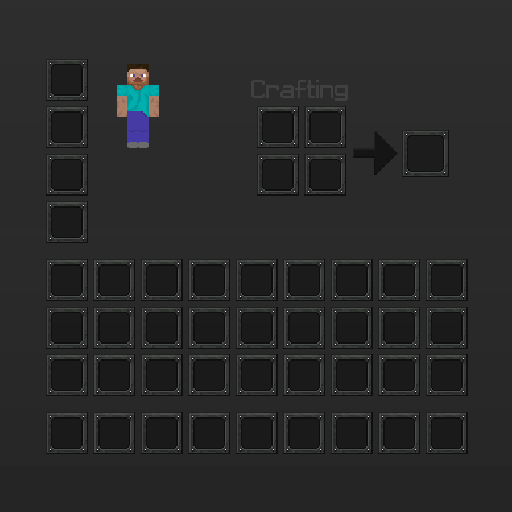
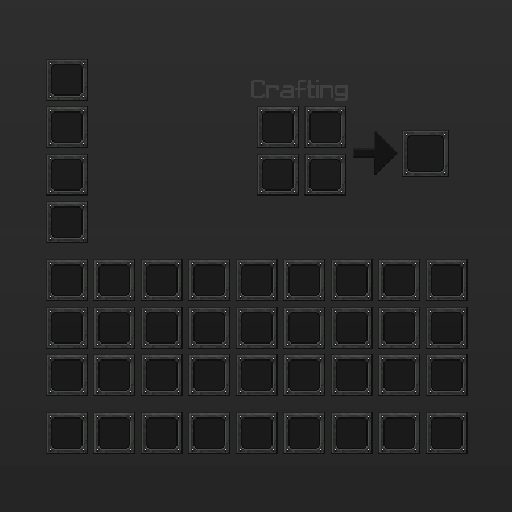
fix: remove Steve skin rendering from inv.png, keep Crafting text only

Changed region(s): [[0.2188, 0.125, 0.3125, 0.3125]]

diff --git a/scripts/extract-textures.js b/scripts/extract-textures.js
@@ -357,20 +357,8 @@ async function generateInventoryPreview(inventoryPath, outputDir) {
     const cropW = Math.round(176 * scale);
     const cropH = Math.round(166 * scale);
 
-    // 在 inventory 裁剪图上合成 Steve 和 Crafting 文字（在缩放之前）
+    // 在 inventory 裁剪图上合成 Crafting 文字（在缩放之前）
     const invCropComposites = [];
-
-    // Steve 皮肤 - 预览框内部区域 (256-base): 约 (27,8) 起，宽49×高70
-    const skinPath = path.join(outputDir, 'steve.png');
-    if (fs.existsSync(skinPath)) {
-      const boxX = 27, boxY = 8, boxW = 49, boxH = 70;
-      const skinTargetH = Math.round(boxH * scale * 0.95);
-      const skinBuf = await renderSkinFront(skinPath, skinTargetH);
-      const skinMeta = await sharp(skinBuf).metadata();
-      const skinX = Math.round(boxX * scale + (boxW * scale - skinMeta.width) / 2);
-      const skinY = Math.round(boxY * scale + (boxH * scale - skinMeta.height) / 2);
-      invCropComposites.push({ input: skinBuf, left: skinX, top: skinY, blend: 'over' });
-    }
 
     // "Crafting" 文字 - 位置 (256-base): 约 (86,16)
     const asciiPath = path.join(outputDir, 'ascii.png');
